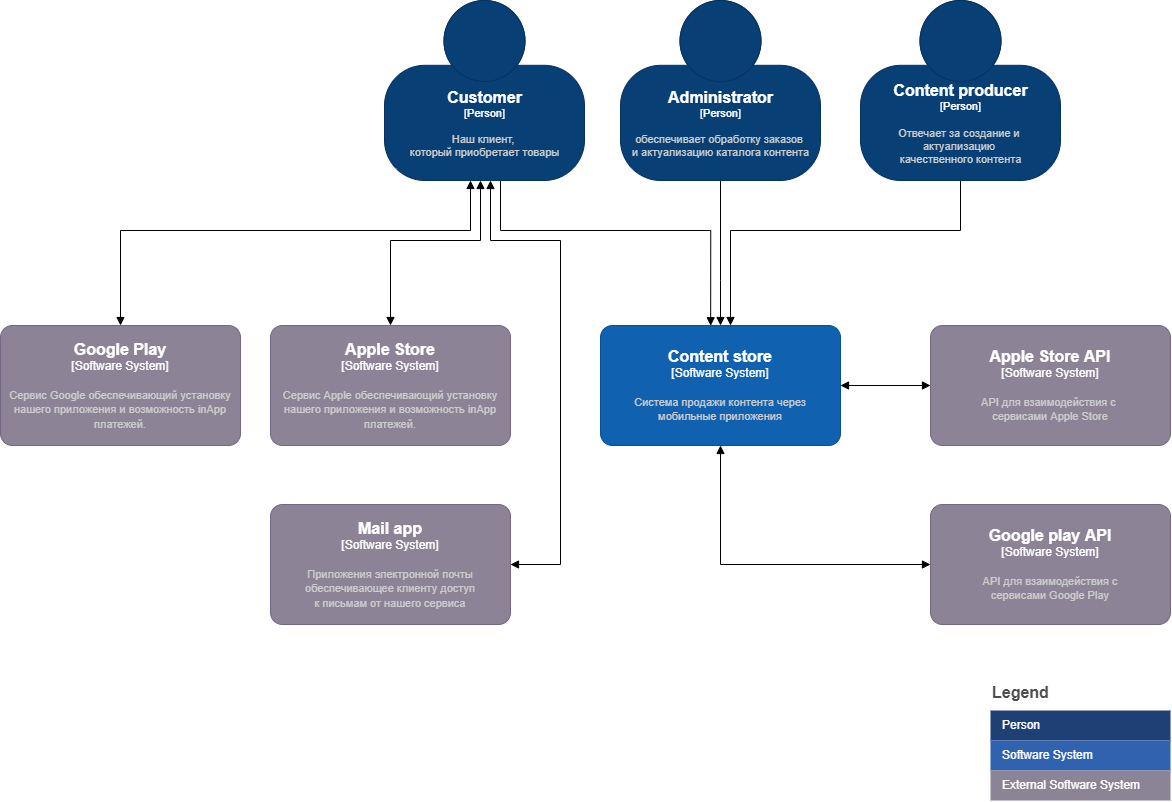
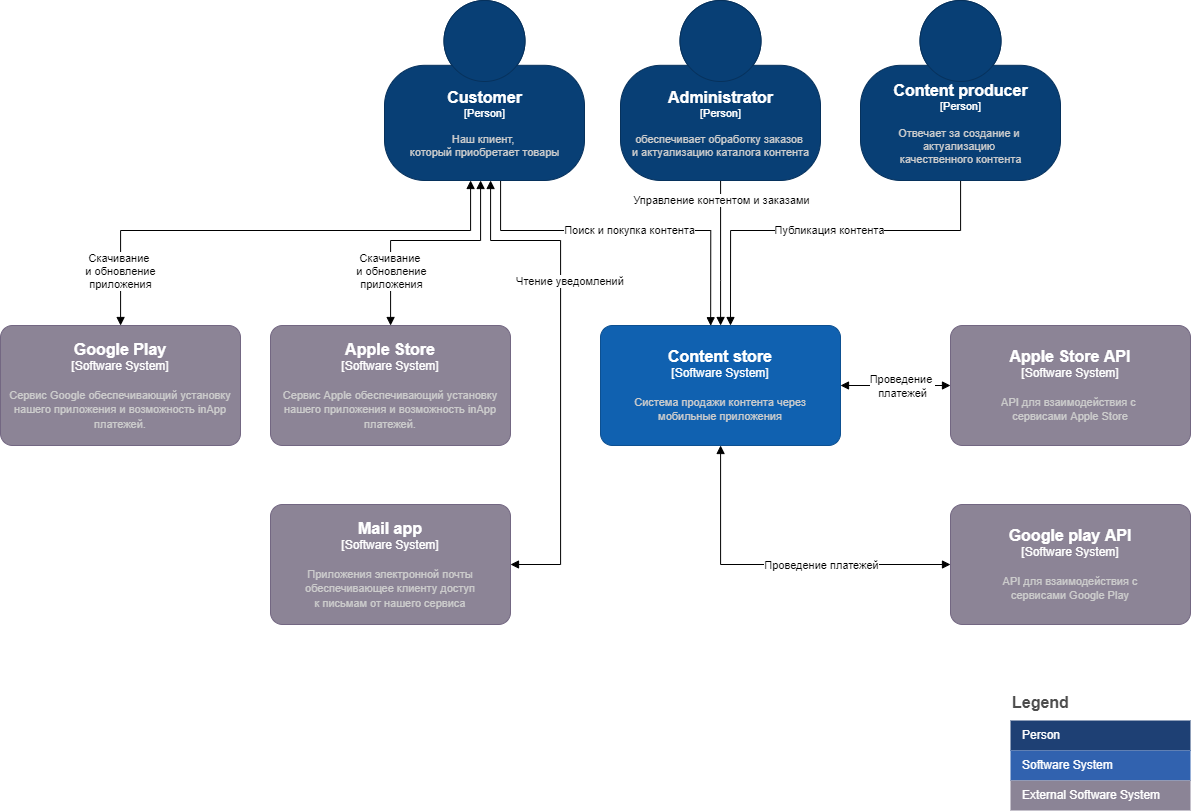
added container diagram

diff --git a/README.md b/README.md
@@ -1,8 +1,8 @@
-# Design of an application that sells content
+# Дизайн архитектуры решения продающего контент через мобильные приложения
 
 ## Оглавление
 
-- [Design of an application that sells content](#design-of-an-application-that-sells-content)
+- [Дизайн архитектуры решения продающего контент через мобильные приложения](#дизайн-архитектуры-решения-продающего-контент-через-мобильные-приложения)
   - [Оглавление](#оглавление)
   - [Исходные данные](#исходные-данные)
       - [Требования](#требования)
@@ -118,6 +118,10 @@
 
 ### Контейнерная схема
 
+Ниже представлена схема решения на уровне отдельных контейнеров (по концепции C4Model). Данная схема показывает из каких элементов на среднем уровне должно состоять проектируемое решение и как эти элементы будут взаимодействовать между собой.
+
+![Container diagram!](images/container.png 'Container diagram')
+
 ### Инфраструктурная схема
 
 ### Ключевые атрибуты качества
@@ -156,19 +160,20 @@
 - **Mobile Application Android** - мобильное приложение на платформе Android, доступное для скачивания в Google Play
 - **Google Play API** - API для взаимодействия с сервисами Google Play. В том числе Google Pay API.
 - **Apple Store API** - API для взаимодействия с сервисами Apple Store. В том числе Apple Pay.
+- **DNS** - сервис доменных имен
 - **CDN** - сервис распределенной доставки и дистрибуции контента
-- **API Gateway** - шлюз обеспечивающий взаимодействие между клиентскими приложениями и нашими сервисами (API)
-- **Authentication Service** - сервис безопасной аутентификации пользователей
-- **Product API Application** - программный интерфейс приложения обеспечивающего работу с каталогом контента
-- **Product Management Backoffice** - веб-интерфейс обеспечивающие работу с каталогом контента, добапление нового контента и актуализацию уже загруженного
-- **S3 Storage for static content** - объектное хранилище для статического контента
+- **WAF** - сервис для обнаружения и блокирования сетевых атак на сервис
+- **API Gateway** - шлюз, обеспечивающий взаимодействие между клиентскими приложениями и нашими сервисами (API)
+- **Auth Service** - сервис безопасной аутентификации и авторизации пользователей
+- **Products API** - программный интерфейс приложения обеспечивающего работу с каталогом контента
+- **Product and Order Management Backoffice** - веб-интерфейс обеспечивающий работу с каталогом контента, добавление нового контента и актуализацию уже загруженного, а также управление заказами и покупками клиентов
+- **S3 Storage** - объектное хранилище для статического контента и исторических данных
 - **Products Database** - БД для хранении информации о продуктах
 - **Orders Database** - БД для хранения информации о заказах
-- **Cache** - промежуточное in-memory хранилище данных о продуктах
-- **Orders web application** - веб-приложение для обработки заказов клиентов
-- **Orders API Application** - программный интерфейс приложения обеспечивающего работу с заказами
+- **Products Cache** - промежуточное in-memory хранилище данных о продуктах
+- **Orders API** - программный интерфейс приложения обеспечивающего работу с заказами
 - **Message Broker** - брокер сообщений обеспечивающий асинхронную обработку различных событий (например, отправка Push уведомлений клиентам, или квитанций об оплате)
-- **S3 Storage for reports and logs** - долговременное хранилище исторических данных
+- **Reporting** - система построение аналитических отчетов на основе данных S3
 - **GitLab** - здесь можно будет хранить артефакты разработки, реализовать репозиторий код, реализовать пайплайны CI/CD
 - **Log and tracing** - ElasticSearch для поиска информации, LogStash для сбора, обработки логов, Kibana для визуализации
 
